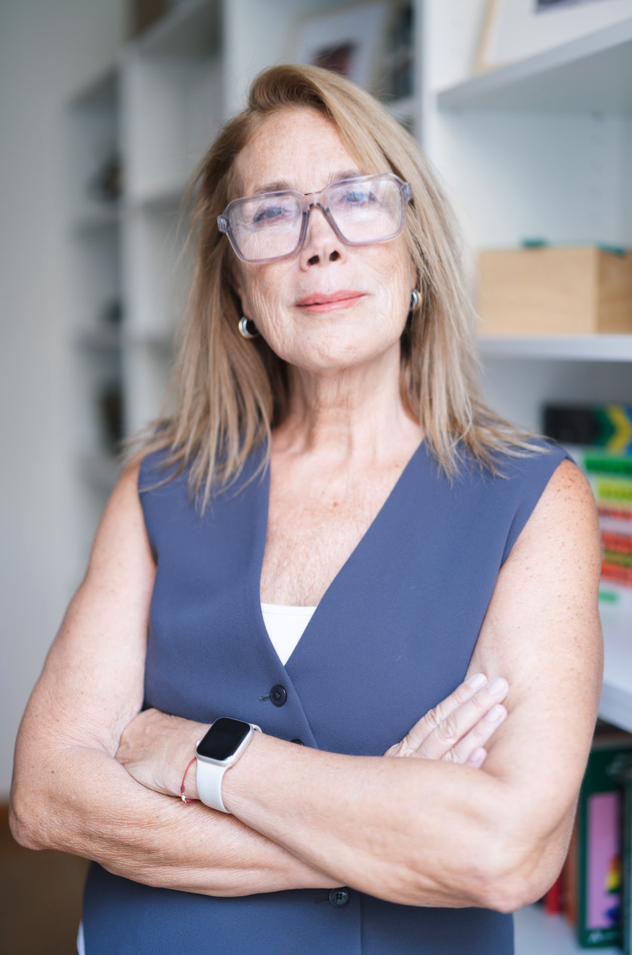
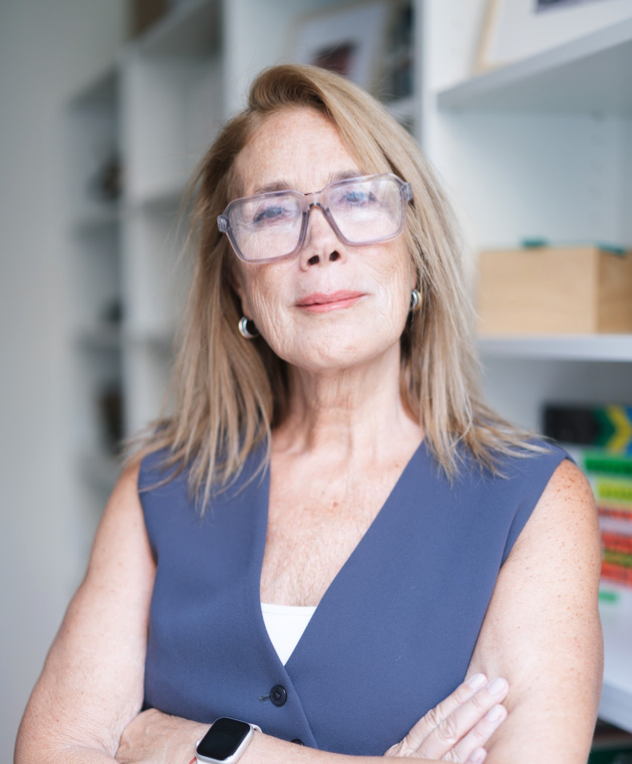
Publicidades + proyectos + fotos

diff --git a/src/data/projects.ts b/src/data/projects.ts
@@ -1,10 +1,10 @@
 import type { ProjectSlug } from '../i18n/es'
 
-export type ProjectCategory = 'series' | 'theater' | 'podcast' | 'radio'
+export type ProjectCategory = 'series' | 'theater' | 'podcast' | 'radio' | 'advertising'
 
 export type Trailer = {
   url: string
-  kind?: 'teaser' | 'program' // por defecto es tráiler; 'program' = programa completo (radio)
+  kind?: 'teaser' | 'program' | 'spot' // por defecto es tráiler; 'program' = programa completo (radio); 'spot' = comercial
 }
 
 export type Project = {
@@ -20,7 +20,7 @@ export type Project = {
 }
 
 // Orden en que se muestran las categorías en Proyectos
-export const categories: ProjectCategory[] = ['series', 'theater', 'podcast', 'radio']
+export const categories: ProjectCategory[] = ['series', 'theater', 'podcast', 'radio', 'advertising']
 
 const yt = (id: string) => `https://www.youtube.com/watch?v=${id}`
 
@@ -30,7 +30,9 @@ export const projects: Project[] = [
   { slug: 'simplemente-alicia', title: 'Simplemente Alicia', category: 'series', year: '2025', platform: 'Netflix', poster: '/fotos/Posters/simplemente-alicia.jpg', link: 'https://www.netflix.com/ar/title/81704482', trailers: [{ url: yt('rSuDiDmJd54'), kind: 'teaser' }] },
   { slug: 'betty-la-fea-2', title: 'Betty la Fea: La Historia Continúa II', category: 'series', year: '2025', platform: 'Amazon Prime', poster: '/fotos/Posters/betty-la-fea.jpg', link: 'https://www.primevideo.com/-/es/detail/0JP19B4WQVKERE4RCNHV94A5FK', trailers: [{ url: yt('JNzxDt4AE7A') }] },
   { slug: 'betty-la-fea', title: 'Betty la Fea: La Historia Continúa I', category: 'series', year: '2024', platform: 'Amazon Prime', poster: '/fotos/Posters/betty-la-fea-1.jpg', link: 'https://www.primevideo.com/-/es/detail/0TPL3401XZ3BYAF8WQAG79A9DG', trailers: [{ url: yt('hMGDI7y9NfA') }] },
-  { slug: 'planners', title: 'Planners II', category: 'series', year: '2023', platform: 'Disney+', poster: '/fotos/Posters/planners.jpg', link: 'https://www.disneyplus.com/es-ar/browse/entity-e2534135-91ff-4171-ab06-3a95ae797287', trailers: [{ url: yt('O-2nQDB2R0Q') }] },
+  { slug: 'planners', title: 'Planners II', category: 'series', year: '2023', platform: 'Disney+', poster: '/fotos/Posters/planners.jpg', link: 'https://www.disneyplus.com/es-ar/browse/entity-e2534135-91ff-4171-ab06-3a95ae797287', trailers: [{ url: yt('pkgep24ChoM') }] },
+  { slug: 'camilo-superstar', title: 'Camilo Superstar', category: 'series', year: '2023', platform: 'ATRESplayer / Buendía Estudios', poster: '/fotos/Posters/camilo-superstar.jpg', trailers: [{ url: yt('Ovrlq5tXIGE') }] },
+  { slug: 'separadas', title: 'Separadas', category: 'series', year: '2020', platform: 'El Trece / Pol-ka', poster: '/fotos/Posters/separadas.jpg', trailers: [{ url: yt('Upp-CuDRSuc') }] },
   { slug: 'el-host', title: 'El Host II', category: 'series', year: '2019', platform: 'Fox', poster: '/fotos/Posters/el host 2.jpg', link: 'https://portal.app.flow.com.ar/ver/el-host/iw9gi_XxDUeEoXp9GDPP7w', trailers: [{ url: yt('zRKKbEh0g9E') }] },
   { slug: 'edha', title: 'Edha', category: 'series', year: '2018', platform: 'Netflix', poster: '/fotos/Posters/Edha_sin_fecha.jpg', link: 'https://www.netflix.com/ar/title/80112916', trailers: [{ url: yt('LMK4Pf2RTvY') }] },
   { slug: 'las-estrellas', title: 'Las Estrellas', category: 'series', year: '2017', platform: 'Canal 13', poster: '/fotos/Posters/las-estrellas.jpg', link: 'https://www.eltrecetv.com.ar/las-estrellas/capitulos/', trailers: [{ url: yt('nIis19CJ8sQ') }] },
@@ -38,7 +40,7 @@ export const projects: Project[] = [
   { slug: 'solamente-vos', title: 'Solamente Vos', category: 'series', year: '2013-2014', platform: 'Canal 13', poster: '/fotos/Posters/solamente-vos.jpg', link: 'https://www.eltrecetv.com.ar/solamente-vos/', trailers: [{ url: yt('QW2pE0-Kis0') }] },
   { slug: 'danos-colaterales', title: 'Daños Colaterales', category: 'series', year: '2012', platform: 'Canal 13', poster: '/fotos/Posters/danos-colaterales.jpg', link: 'https://www.eltrecetv.com.ar/programas/danos-colaterales/capitulos-completos/capitulo-1_057757/' },
   { slug: 'cuando-me-sonreis', title: 'Cuando me Sonreís', category: 'series', year: '2011', platform: 'Telefe', poster: '/fotos/Posters/cuando-me-sonreis.jpg', trailers: [{ url: yt('ZOaiAZI15U4') }] },
-  { slug: 'ciega-a-citas', title: 'Ciega a Citas', category: 'series', year: '2009', platform: 'Televisión Pública', poster: '/fotos/Posters/ciega-a-citas.jpg', trailers: [{ url: yt('oMSqeVv4peE') }] },
+  { slug: 'ciega-a-citas', title: 'Ciega a Citas', category: 'series', year: '2009', platform: 'Televisión Pública', poster: '/fotos/Posters/ciega-a-citas.jpg', trailers: [{ url: yt('47D7F3iCE_w') }] },
   { slug: 'socias', title: 'Socias', category: 'series', year: '2008', platform: 'Canal 13', poster: '/fotos/Posters/socias.jpg', link: 'https://www.eltrecetv.com.ar/socias/capitulos/', trailers: [{ url: yt('rJKy_F0IbNk') }] },
 
   // Teatro
@@ -55,6 +57,10 @@ export const projects: Project[] = [
 
   // Radio
   { slug: 'recalculando', title: 'Recalculando', category: 'radio', year: '2015', platform: 'La Once Diez - Radio Ciudad AM 1110', poster: '/fotos/Proyectos/recalculando.jpg', trailers: [{ url: yt('tzIXebUVuKw'), kind: 'program' }] },
+
+  // Publicidad
+  { slug: 'socios', title: 'Socios: Dentro y Fuera de la Cancha', category: 'advertising', year: '2016', platform: 'La Segunda Seguros', poster: '/fotos/Posters/socios.jpg', trailers: [{ url: yt('UtyMC0f_I4k') }] },
+  { slug: 'fravega', title: 'Frávega: Centenario', category: 'advertising', year: '2010', platform: 'Frávega', poster: '/fotos/Posters/fravega.jpg', trailers: [{ url: yt('voM_7ObcTVM'), kind: 'spot' }] },
 ]
 
 export const findProject = (slug: string) => projects.find((p) => p.slug === slug)

diff --git a/src/i18n/es.ts b/src/i18n/es.ts
@@ -32,6 +32,12 @@ const projectItems = {
   'edha': {
     description: 'Protagonizada por Juana Viale, la historia sigue a una exitosa y visionaria diseñadora de moda de Buenos Aires cuya vida y carrera dan un vuelco tras conocer a Teo, un atractivo modelo e inmigrante que busca venganza. La trama combina el glamour de la alta costura con los oscuros secretos de la industria textil, la traición, el deseo y la lucha de clases.',
   },
+  'camilo-superstar': {
+    description: 'Miniserie biográfica musical española que narra el ambicioso y desafiante proceso de producción de la histórica ópera rock Jesucristo Superstar en la España de 1975, impulsado por el icónico cantante Camilo Sesto. Una ficción que retrata la libertad creativa, la juventud y el detrás de escena de un hito cultural que marcó una época.',
+  },
+  'separadas': {
+    description: 'Telenovela argentina emitida por eltrece, producida por Pol-ka. La historia sigue las vidas de siete mujeres muy diferentes que, por distintas circunstancias, se encuentran alquilando departamentos en un mismo edificio y terminan formando un fuerte vínculo de amistad y apoyo mutuo mientras enfrentan sus propios conflictos personales, laborales y amorosos.',
+  },
   'planners': {
     description: 'Protagonizada por Celeste Cid, la trama sigue a Malena Carregal, una mujer que, tras divorciarse de su esposo y socio, reacondiciona su vida profesional montando su propia agencia de organización de eventos. La historia aborda los desafíos del emprendedurismo, el caos detrás del lujo y las celebraciones, la reconstrucción personal a los 40 años y la búsqueda de independencia emocional y laboral.',
   },
@@ -68,6 +74,12 @@ const projectItems = {
   'escribiendo-el-fin-del-mundo': {
     role: '**Dirección, producción y creación:** Marta Betoldi',
     description: 'Protagonizada por Eleonora Wexler y Favio Posca, esta audioserie explora una intrigante historia narrada a través del sonido, el drama y el suspenso. La trama se sumerge en las grietas emocionales, los enigmas y las reflexiones sobre la existencia en un mundo al borde del colapso, aprovechando al máximo el lenguaje inmersivo del podcast de ficción para construir una atmósfera envolvente e íntima.',
+  },
+  'socios': {
+    description: 'Webserie protagonizada por los rugbiers Agustín Creevy y Leo Senatore, concebida como un formato de ficción para el universo digital. Proyecto en el cual Marta Betoldi se desempeñó como creadora, showrunner, guionista y directora de actores.',
+  },
+  'fravega': {
+    description: 'Secuencia de spots publicitarios concebidos para la campaña del centenario de Frávega. Una serie de cuatro entregas de ficción publicitaria escritas por Marta Betoldi como guionista, en coautoría con Susana Giménez y Ricardo Darín, bajo la dirección de Juan José Taratuto.',
   },
 } satisfies Record<string, ProjectText>
 
@@ -172,6 +184,7 @@ export const es = {
     trailer: 'Tráiler',
     teaser: 'Teaser',
     program: 'Programa',
+    spot: 'Spot',
     play: 'Reproducir',
     watchOnYoutube: 'Ver en YouTube →',
     categories: {
@@ -179,6 +192,7 @@ export const es = {
       theater: 'Teatro',
       podcast: 'Podcast',
       radio: 'Radio',
+      advertising: 'Publicidad',
     },
     items: projectItems as Record<ProjectSlug, ProjectText>,
   },

diff --git a/src/i18n/en.ts b/src/i18n/en.ts
@@ -36,6 +36,7 @@ export const en: Translations = {
     trailer: 'Trailer',
     teaser: 'Teaser',
     program: 'Episode',
+    spot: 'Commercial',
     play: 'Play',
     watchOnYoutube: 'Watch on YouTube →',
     categories: {
@@ -43,6 +44,7 @@ export const en: Translations = {
       theater: 'Theater',
       podcast: 'Podcast',
       radio: 'Radio',
+      advertising: 'Advertising',
     },
     items: {
       'socias': {
@@ -71,6 +73,12 @@ export const en: Translations = {
       },
       'edha': {
         description: 'Starring Juana Viale, the story follows a successful and visionary Buenos Aires fashion designer whose life and career are turned upside down after she meets Teo, an attractive model and immigrant seeking revenge. The plot combines the glamour of haute couture with the dark secrets of the textile industry, betrayal, desire and class struggle.',
+      },
+      'camilo-superstar': {
+        description: 'Spanish biographical musical miniseries about the ambitious and challenging production of the landmark rock opera Jesus Christ Superstar in 1975 Spain, driven by iconic singer Camilo Sesto. A story about creative freedom, youth and the behind-the-scenes of a cultural milestone that defined an era.',
+      },
+      'separadas': {
+        description: 'Argentine telenovela aired on eltrece and produced by Pol-ka. The story follows the lives of seven very different women who, for various reasons, end up renting apartments in the same building and form a strong bond of friendship and mutual support while facing their own personal, work and love conflicts.',
       },
       'planners': {
         description: 'Starring Celeste Cid, the plot follows Malena Carregal, a woman who, after divorcing her husband and business partner, rebuilds her professional life by starting her own event-planning agency. The story tackles the challenges of entrepreneurship, the chaos behind luxury and celebrations, starting over at 40 and the pursuit of emotional and professional independence.',
@@ -108,6 +116,12 @@ export const en: Translations = {
       'escribiendo-el-fin-del-mundo': {
         role: '**Direction, production and creation:** Marta Betoldi',
         description: 'Starring Eleonora Wexler and Favio Posca, this audio series tells an intriguing story through sound, drama and suspense. The plot delves into emotional rifts, mysteries and reflections on existence in a world on the brink of collapse, making the most of the immersive language of fiction podcasts to create an enveloping and intimate atmosphere.',
+      },
+      'socios': {
+        description: 'Web series starring rugby players Agustín Creevy and Leo Senatore, conceived as a fiction format for the digital world. Marta Betoldi served as creator, showrunner, screenwriter and acting director on the project.',
+      },
+      'fravega': {
+        description: 'A sequence of commercials created for Frávega’s centennial campaign. A series of four fictional advertising installments written by Marta Betoldi as screenwriter, co-written with Susana Giménez and Ricardo Darín, directed by Juan José Taratuto.',
       },
     },
   },

diff --git a/src/pages/ProyectoPage.tsx b/src/pages/ProyectoPage.tsx
@@ -59,7 +59,7 @@ export default function ProyectoPage() {
       {/* Tráiler / teaser abajo de todo, embebido de YouTube (carga al hacer clic) */}
       {/* Cada video se chequea por separado: si uno falla, solo ese se oculta */}
       {trailers.map((tr) => {
-        const label = tr.kind === 'teaser' ? t.projects.teaser : tr.kind === 'program' ? t.projects.program : t.projects.trailer
+        const label = tr.kind ? t.projects[tr.kind] : t.projects.trailer
         return (
           <YouTubeEmbed
             key={tr.url}
